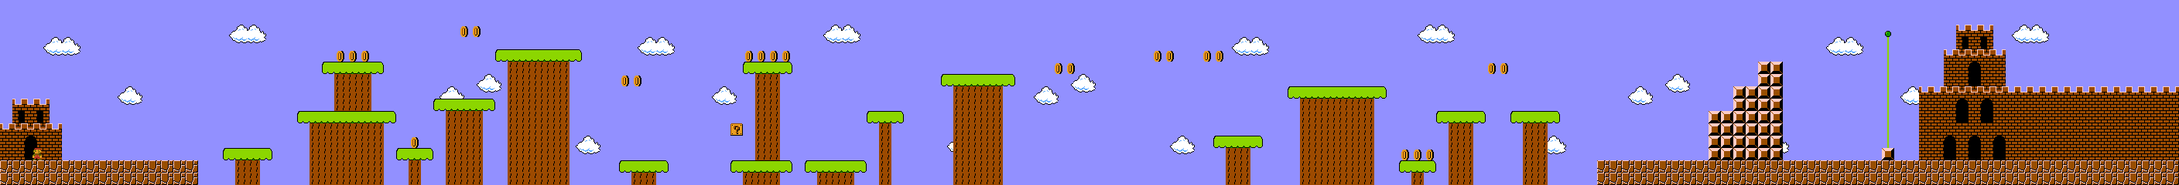
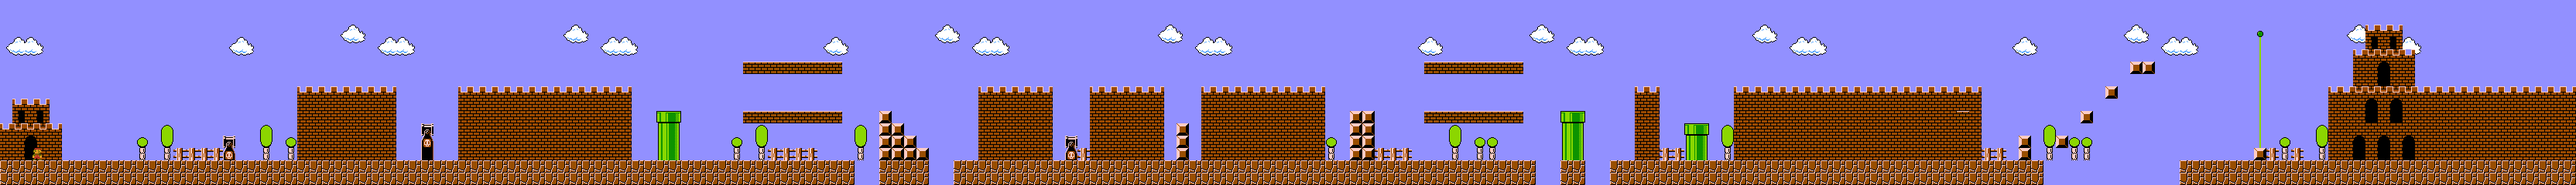
more stuf

diff --git a/visualizer.py b/visualizer.py
@@ -4,7 +4,7 @@ import sys
 from PIL import Image, ImageDraw#, ImageFont
 import numpy as np
 import os
-#import random
+import random
 
 def paste_subarray(arr1, arr2, start_row, start_col, start_row_arr2, start_col_arr2, end_row_arr2, end_col_arr2):
     rows_arr2 = end_row_arr2 - start_row_arr2 + 1
@@ -17,13 +17,14 @@ def paste_subarray(arr1, arr2, start_row, start_col, start_row_arr2, start_col_a
 
     return arr1
 
-#font = ImageFont.truetype("C:\\Users\\zonic\\AppData\\Local\\Microsoft\\Windows\\Fonts\\ARCADECLASSIC.TTF", 16)
+#font = ImageFont.truetype("C:\\Users\\\\AppData\\Local\\Microsoft\\Windows\\Fonts\\ARCADECLASSIC.TTF", 16)
 requestedfile = sys.argv[1]
-leveldata = levelparser.parse_binary_file(requestedfile)
+leveldata = levelparser.parse_binary_file(requestedfile, int(sys.argv[2]) if len(sys.argv) > 2 else 0, int(sys.argv[3]) if len(sys.argv) > 3 else -1)
 print(leveldata[0])
 desired_color = (0x92, 0x90, 0xff)
 if(leveldata[0]['backdrop'] in ['Snowy Night', 'Fully Gray Night', 'Night Default',]):
     desired_color = (0x00,0x00,0x00)
+
 image = Image.new(mode="RGBA", size=((int(leveldata[-1]['total_pages']) + 2) * 256, 240), color=desired_color)
 bg = Image.open(os.path.join("backgrounds", f"{leveldata[0]['background']}.png"))
 for i in range(0, image.width, bg.width):
@@ -98,8 +99,15 @@ for object in leveldata:
                 if (object['obj_type'] >> 2) & 0b001 == 1:
                     if object['obj_size'] & 0b0111 == 0b010:
                         x_start = ((object['x_pos'] + 1) * 16)
+                        x_stop = image.width
+                        for check_obj in leveldata:
+                            if check_obj != leveldata[0] and check_obj != leveldata[-1]:
+                                if check_obj['y_pos'] == 14:
+                                
+                                    if ((check_obj['obj_type'] >> 2) & 0b001 == 1) and check_obj['x_pos'] > object['x_pos'] and check_obj['obj_size'] & 0b0111 == 0b000 and x_stop == image.width:
+                                        x_stop = ((check_obj['x_pos'] + 1) * 16)
                         bg = Image.open(os.path.join("backgrounds", "CastleWalls.png"))
-                        for i in range(x_start, image.width, bg.width):
+                        for i in range(x_start, x_stop, 16):
                             image.paste(bg, (i, 32), bg)
                 else:
                     for i in range(len(level_array[0]) - object['x_pos'] - 1):
@@ -149,8 +157,11 @@ for object in leveldata:
 
                         paste_subarray(level_array, values, 6, object['x_pos'], 0,0,3,3)
                         for i in range(5):
-                            level_array[6 - i][object['x_pos'] + 2] = 7
-                            level_array[6 - i][object['x_pos'] + 3] = 8
+                            try:
+                                level_array[6 - i][object['x_pos'] + 2] = 7
+                                level_array[6 - i][object['x_pos'] + 3] = 8
+                            except:
+                                pass
                     case 3: # Stairs
                         max_height = 8
                         for i in range(object['obj_size'] + 1):
@@ -160,37 +171,46 @@ for object in leveldata:
                                 except:
                                     pass
                     case 2:
-                        print((len(level_array) - object['obj_size']) - 1)
                         paste_subarray(level_array, castle_tiledata, (13 - (len(castle_tiledata) - object['obj_size'])) , object['x_pos'], 0, 0, len(castle_tiledata) - object['obj_size'] - 1, 5)
             elif object['y_pos'] == 0b1101:
-                subtype = object['obj_type'] >> 2 & 0b001
-                subsubtype = object['obj_size']
-                #print(bin(subtype), bin(subsubtype), bin(object['obj_type']), bin(object['obj_size']))
-                if(subtype == 1):
-                    match subsubtype:
-                        case 0b0001:
-                            level_array[2][object['x_pos']] = '17'
-                            for i in range(9):
-                                level_array[3 + i][object['x_pos']] = '18'
-                            level_array[3 + 9][object['x_pos']] = '4'
-                        case 0:
-                            values = [
-                                ['0', '0', '5', '6'],
-                                ['0', '0', '7', '8'],
-                                ['11', '13', '14', '8'],
-                                ['12', '15', '16', '8']
-                            ]
+                try:
+                    subtype = object['obj_type'] >> 2 & 0b001
+                    subsubtype = object['obj_size']
+                    #print(bin(subtype), bin(subsubtype), bin(object['obj_type']), bin(object['obj_size']))
+                    if(subtype == 1):
+                        match subsubtype:
+                            case 0b0001:
+                                level_array[2][object['x_pos']] = '17'
+                                for i in range(9):
+                                    level_array[3 + i][object['x_pos']] = '18'
+                                level_array[3 + 9][object['x_pos']] = '4'
+                            case 0:
+                                values = [
+                                    ['0', '0', '5', '6'],
+                                    ['0', '0', '7', '8'],
+                                    ['11', '13', '14', '8'],
+                                    ['12', '15', '16', '8']
+                                ]
 
-                            paste_subarray(level_array, values, 9, object['x_pos'], 0,0,3,3)
+                                paste_subarray(level_array, values, 9, object['x_pos'], 0,0,3,3)
+                except:
+                    pass
 
         elif(object["obj_type"] == 0):
             object['y_pos'] += 2
             if(object['obj_size'] in [0b0000, 0b0001, 0b0010, 0b011]):
                if object['y_pos']  < len(level_array):
-                  level_array[object['y_pos']][object['x_pos']] = '3'
+                try:
+                    level_array[object['y_pos']][object['x_pos']] = '3'
+                except:
+                    pass
+                
             elif (object['obj_size'] in [0b0100, 0b0101, 0b0110, 0b0111, 0b1000]):
                 if object['y_pos']  < len(level_array):
-                    level_array[object['y_pos']][object['x_pos']] = '2'
+                    try:
+                        level_array[object['y_pos']][object['x_pos']] = '2'
+                    except:
+                        pass
             elif object['obj_size'] == 0b1010:
                 try:
                     level_array[object['y_pos']][object['x_pos']] = '10'
@@ -210,78 +230,81 @@ for object in leveldata:
 
         else:
             object['y_pos'] += 2
-            match object['obj_type']:
-                case 1:
-                    if(leveldata[0]['tile_and_special_platform'] in ['Normal Block, Green Pipe, Tree', 'Cloud Block, Green Pipe, Tree']):
+            try:
+                match object['obj_type']:
+                    case 1:
+                        if(leveldata[0]['tile_and_special_platform'] in ['Normal Block, Green Pipe, Tree', 'Cloud Block, Green Pipe, Tree']):
+                            for i in range(object['obj_size'] + 1):
+                                if(object['x_pos'] + i < len(level_array[0])):
+                                    if(i == 0):
+                                        level_array[object['y_pos']][object['x_pos'] + i] = '26'
+                                    elif(i == object['obj_size']):
+                                        level_array[object['y_pos']][object['x_pos'] + i] = '28'
+                                    else:
+                                        level_array[object['y_pos']][object['x_pos'] + i] = '27'
+                                        for j in range(1, len(level_array) - object['y_pos']):
+                                            if(level_array[object['y_pos'] + j][object['x_pos'] + i] not in ['26', '27', '28']):
+                                                level_array[object['y_pos'] + j][object['x_pos'] + i] = '29'
+                        elif (leveldata[0]['tile_and_special_platform'] == 'Normal Block, Orange Pipe, Mushroom'):
+                            for i in range(object['obj_size'] + 1):
+                                if(object['x_pos'] + i < len(level_array[0])):
+                                    if(i == 0):
+                                        level_array[object['y_pos']][object['x_pos'] + i] = '30'
+                                    elif(i == object['obj_size']):
+                                        level_array[object['y_pos']][object['x_pos'] + i] = '32'
+                                    else:
+                                        level_array[object['y_pos']][object['x_pos'] + i] = '31'
+                                        for j in range(1, len(level_array) - object['y_pos']):
+                                            if(level_array[object['y_pos'] + j][object['x_pos'] + i] not in ['30', '31', '32'] and object['obj_size'] / i == 2):
+                                                if(j == 1):
+                                                    level_array[object['y_pos'] + j][object['x_pos'] + i] = '33' 
+                                                else:
+                                                    level_array[object['y_pos'] + j][object['x_pos'] + i] = '34' 
+                        else: 
+                            for i in range(object['obj_size'] + 1):
+                                if(object['y_pos'] + i < len(level_array)):
+                                    if(i == 0):
+                                        level_array[object['y_pos'] + i][object['x_pos']] = '35'
+                                    elif(i == 1):
+                                        level_array[object['y_pos'] + i][object['x_pos']] = '36'
+                                    else:
+                                        level_array[object['y_pos'] + i][object['x_pos']] = '37'
+                            
+                    case 2: # Bricks HOR ROW
                         for i in range(object['obj_size'] + 1):
                             if(object['x_pos'] + i < len(level_array[0])):
-                                if(i == 0):
-                                    level_array[object['y_pos']][object['x_pos'] + i] = '26'
-                                elif(i == object['obj_size']):
-                                    level_array[object['y_pos']][object['x_pos'] + i] = '28'
-                                else:
-                                    level_array[object['y_pos']][object['x_pos'] + i] = '27'
-                                    for j in range(1, len(level_array) - object['y_pos']):
-                                        if(level_array[object['y_pos'] + j][object['x_pos'] + i] not in ['26', '27', '28']):
-                                            level_array[object['y_pos'] + j][object['x_pos'] + i] = '29'
-                    elif (leveldata[0]['tile_and_special_platform'] == 'Normal Block, Orange Pipe, Mushroom'):
+                                level_array[object['y_pos']][object['x_pos'] + i] = '2'
+                    case 7: # Pipe 
+                        if(object['obj_size'] > 10):
+                            object['obj_size'] = object['obj_size'] & 0b0111
+                        level_array[object['y_pos']][object['x_pos']] = '5'
+                        if(object['x_pos'] + 1 < len(level_array[0])):
+                            level_array[object['y_pos']][object['x_pos'] + 1] = '6'
+                        for i in range(object['obj_size']):
+                            if(object['y_pos'] + 1 + i < len(level_array)):
+                                if(int(level_array[object['y_pos'] + i + 1][object['x_pos']]) == 0):
+                                    level_array[object['y_pos'] + i + 1][object['x_pos']] = '7'
+                            if(object['x_pos'] + 1 < len(level_array[0]) and object['y_pos'] + 1 + i < len(level_array)):
+                                if(int(level_array[object['y_pos'] + i + 1][object['x_pos'] + 1]) == 0):
+                                    level_array[object['y_pos'] + i + 1][object['x_pos'] + 1] = '8'
+                    case 4: # Coins HOR ROW
                         for i in range(object['obj_size'] + 1):
                             if(object['x_pos'] + i < len(level_array[0])):
-                                if(i == 0):
-                                    level_array[object['y_pos']][object['x_pos'] + i] = '30'
-                                elif(i == object['obj_size']):
-                                    level_array[object['y_pos']][object['x_pos'] + i] = '32'
-                                else:
-                                    level_array[object['y_pos']][object['x_pos'] + i] = '31'
-                                    for j in range(1, len(level_array) - object['y_pos']):
-                                        if(level_array[object['y_pos'] + j][object['x_pos'] + i] not in ['30', '31', '32'] and object['obj_size'] / i == 2):
-                                            if(j == 1):
-                                                level_array[object['y_pos'] + j][object['x_pos'] + i] = '33' 
-                                            else:
-                                                level_array[object['y_pos'] + j][object['x_pos'] + i] = '34' 
-                    else: 
+                                level_array[object['y_pos']][object['x_pos'] + i] = '9'
+                    case 3: # Square Blocks HOR ROW
+                        for i in range(object['obj_size'] + 1):
+                            if(object['x_pos'] + i < len(level_array[0])):
+                                level_array[object['y_pos']][object['x_pos'] + i] = '4'
+                    case 6: # Square Blocks VER COL
                         for i in range(object['obj_size'] + 1):
                             if(object['y_pos'] + i < len(level_array)):
-                                if(i == 0):
-                                    level_array[object['y_pos'] + i][object['x_pos']] = '35'
-                                elif(i == 1):
-                                    level_array[object['y_pos'] + i][object['x_pos']] = '36'
-                                else:
-                                    level_array[object['y_pos'] + i][object['x_pos']] = '37'
-                        
-                case 2: # Bricks HOR ROW
-                    for i in range(object['obj_size'] + 1):
-                        if(object['x_pos'] + i < len(level_array[0])):
-                            level_array[object['y_pos']][object['x_pos'] + i] = '2'
-                case 7: # Pipe 
-                    if(object['obj_size'] > 10):
-                        object['obj_size'] = object['obj_size'] & 0b0111
-                    level_array[object['y_pos']][object['x_pos']] = '5'
-                    if(object['x_pos'] + 1 < len(level_array[0])):
-                        level_array[object['y_pos']][object['x_pos'] + 1] = '6'
-                    for i in range(object['obj_size']):
-                        if(object['y_pos'] + 1 + i < len(level_array)):
-                            if(int(level_array[object['y_pos'] + i + 1][object['x_pos']]) == 0):
-                                level_array[object['y_pos'] + i + 1][object['x_pos']] = '7'
-                        if(object['x_pos'] + 1 < len(level_array[0]) and object['y_pos'] + 1 + i < len(level_array)):
-                            if(int(level_array[object['y_pos'] + i + 1][object['x_pos'] + 1]) == 0):
-                                level_array[object['y_pos'] + i + 1][object['x_pos'] + 1] = '8'
-                case 4: # Coins HOR ROW
-                    for i in range(object['obj_size'] + 1):
-                        if(object['x_pos'] + i < len(level_array[0])):
-                            level_array[object['y_pos']][object['x_pos'] + i] = '9'
-                case 3: # Square Blocks HOR ROW
-                    for i in range(object['obj_size'] + 1):
-                        if(object['x_pos'] + i < len(level_array[0])):
-                            level_array[object['y_pos']][object['x_pos'] + i] = '4'
-                case 6: # Square Blocks VER COL
-                    for i in range(object['obj_size'] + 1):
-                        if(object['y_pos'] + i < len(level_array)):
-                            level_array[object['y_pos'] + i][object['x_pos']] = '4'
-                case 5: # Bricks VER COL
-                    for i in range(object['obj_size'] + 1):
-                        if(object['y_pos'] + i < len(level_array)):
-                            level_array[object['y_pos'] + i][object['x_pos']] = '2'
+                                level_array[object['y_pos'] + i][object['x_pos']] = '4'
+                    case 5: # Bricks VER COL
+                        for i in range(object['obj_size'] + 1):
+                            if(object['y_pos'] + i < len(level_array)):
+                                level_array[object['y_pos'] + i][object['x_pos']] = '2'
+            except:
+                pass
 
 
 for row in range(len(level_array)):
@@ -296,11 +319,8 @@ for row in range(len(level_array)):
         img1 = ImageDraw.Draw(image)
         img1.rectangle((x0, y0, x0 + 15, y0 + 15), fill=desired_color)
         image.paste(tile_img.convert("RGBA"), (x0, y0), tile_img.convert("RGBA"))
-        #for object in leveldata:
-
-            #if object != leveldata[0] and object != leveldata[-1]:
-                #draw = ImageDraw.Draw(image)
-                #draw.text((object['x_pos'] * 16, (object['y_pos'] if object['y_pos'] < 12 else 0) * 16),f"{object['raw_data'][0] + object['raw_data'][1] }",(random.randrange(0, 255),random.randrange(0, 255),random.randrange(0, 255)),font=font)
+        #if object != leveldata[0] and object != leveldata[-1]:
+            #img1.text((object['x_pos'] * 16, (object['y_pos'] if object['y_pos'] < 12 else 0) * 16),f"{object['raw_data'][0] + object['raw_data'][1] }",(random.randrange(0, 255),random.randrange(0, 255),random.randrange(0, 255)),font=font)
 mario = Image.open('chunkids/mario.png')
 image.paste(mario.convert("RGBA"), (24 + 16, (int(leveldata[0]['start_location_y']) * 16) + 16), mario.convert("RGBA"))
     

diff --git a/levelparser.py b/levelparser.py
@@ -16,7 +16,8 @@ floor_pattern_names = {
     '14':'001000111100011',
     '15':'001111111111111',
 }
-def parse_binary_file(file_path):
+def parse_binary_file(file_path, offset = 0, bytestoread = -1):
+    bytesread = 0
     level_data = []
     pagesencountered = 0
 
@@ -103,15 +104,18 @@ def parse_binary_file(file_path):
         })
 
     with open(file_path, 'rb') as f:
+        f.read(offset)
         if(len(level_data) <= 0):
+            bytesread += 2
             header = f.read(2)
             if len(header) < 2:
                 raise ValueError("File is too short to contain a header")
             parse_header(header)
         
         while True:
+            bytesread += 2
             data = f.read(2)
-            if len(data) < 2: #or data[0] == 0xFD:
+            if len(data) < 2 or (bytesread >= bytestoread and bytestoread > 0) : #or data[0] == 0xFD:
                 break
             parse_object(data)
         level_data.append({'total_pages': pagesencountered})
